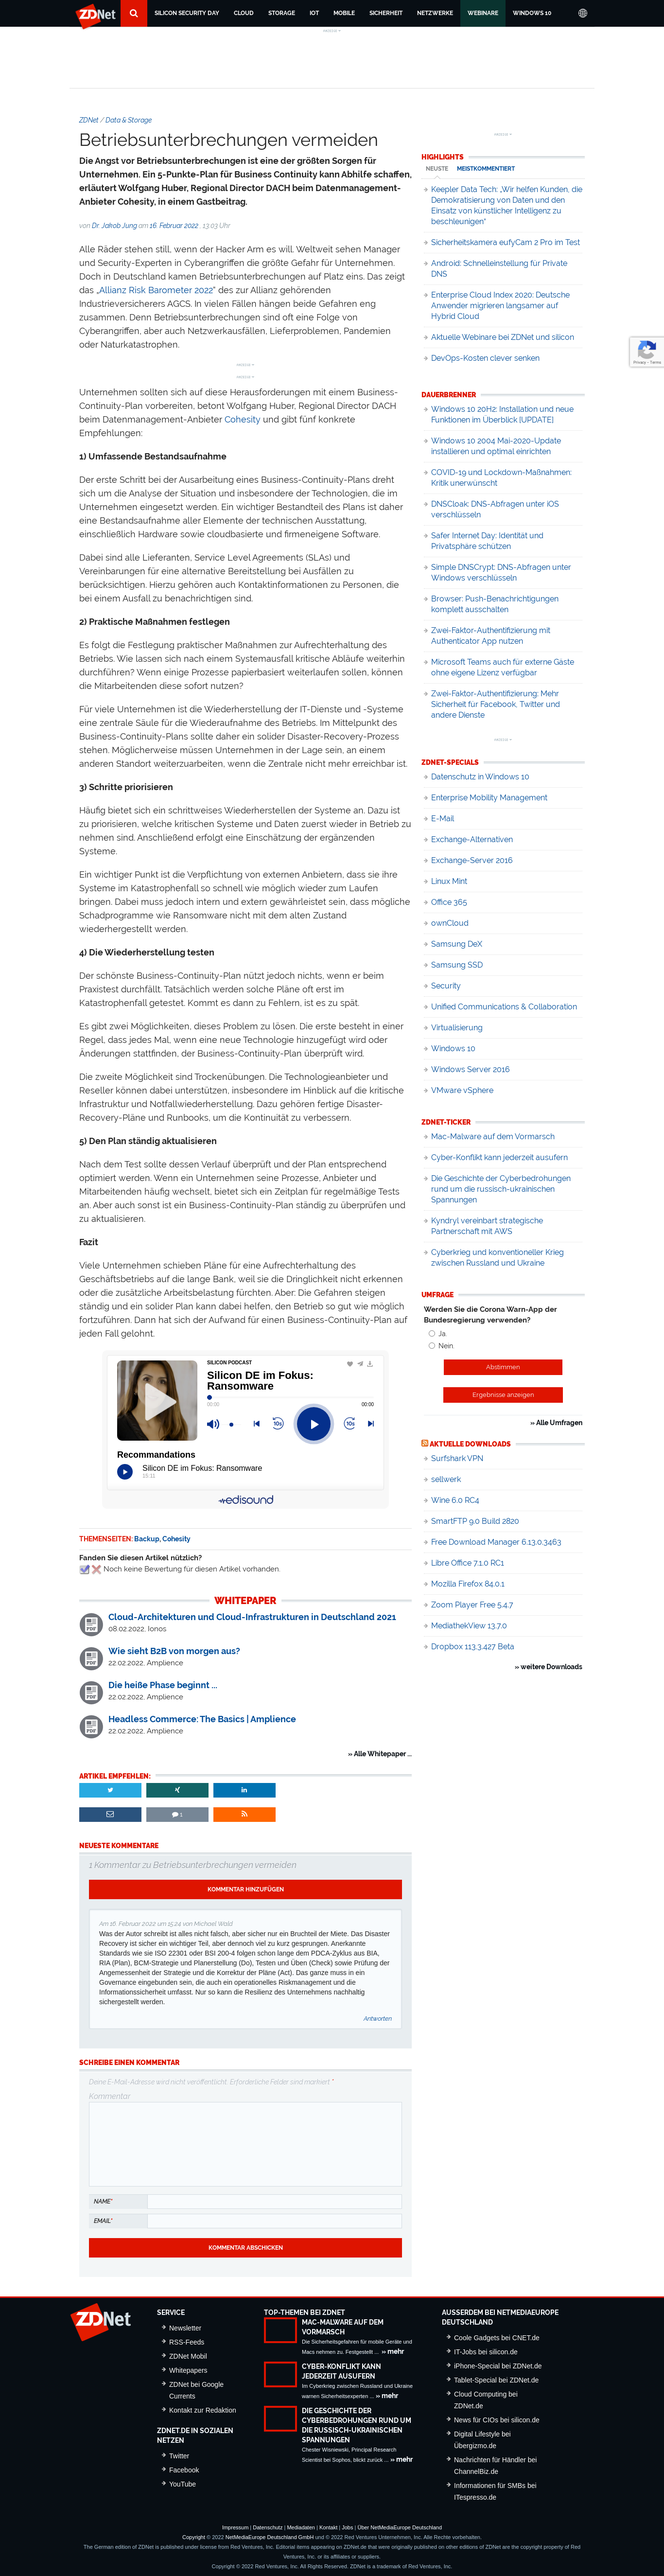
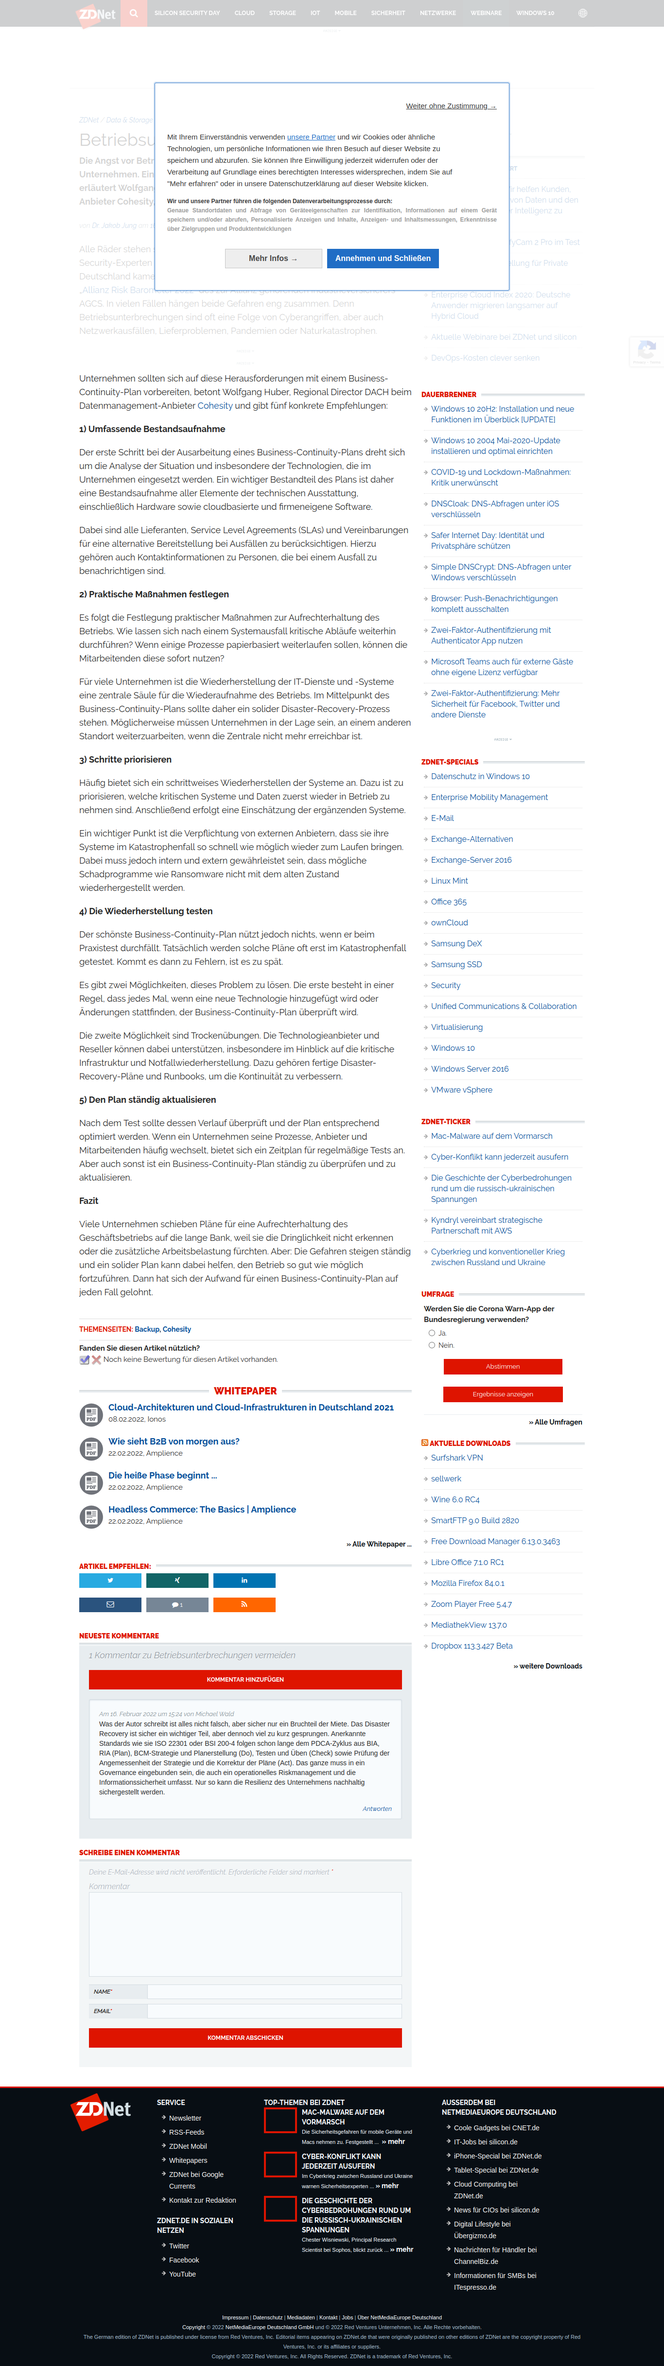
chore@dnd

Changed region(s): [[0.0, 0.0, 1.0, 0.8118], [0.0, 0.8431, 1.0, 0.9992], [0.9531, 0.1249, 0.9839, 0.1561]]

diff --git a/libs/rss-translate/src/modules/scrape.ts b/libs/rss-translate/src/modules/scrape.ts
@@ -1,14 +1,30 @@
 type ScrapeMode = 'zdnet'
 import {playwrightRun} from 'playwright-wrap'
+import { delay, mapAsync } from 'rambdax'
 
 const scrapeFn = async _ => {
+  await _.page.click('#didomi-notice-agree-button')
+  await delay(1000)
   const els = await _.page.$$('#articleContent > p')
-  return els
-    .filter(el => !el.innerHTML.includes('<strong>'))
-    .map(x => x.textContent.trim())
-    .join(' ')
+
+  const titles = []
+  const paragraphs = []
+  await mapAsync(async (el: any) => {
+    const innerHTML = await el.innerHTML()
+    if(innerHTML.includes('<strong>')){
+      titles.push(await el.textContent())
+    }else{
+      paragraphs.push(await el.textContent())
+    }
+  }, Array.from(els))
+
+  return {titles, paragraphs}
+}
+
+function handleError(e){
+  e
 }
 
 export async function scrape(url: string, mode: ScrapeMode) {
-  return playwrightRun({url, fn: scrapeFn, fallback: null})
+  return playwrightRun({url, fn: scrapeFn, fallback: null, handleError})
 }

diff --git a/libs/rss-translate/src/modules/scrape.spec.ts b/libs/rss-translate/src/modules/scrape.spec.ts
@@ -1,6 +1,10 @@
+process.env.HEADLESS = 'OFF'
+
 import { scrape } from './scrape'
 jest.setTimeout(3 * 60 * 1000)
-
 test.only('happy', async () => {
-  await scrape(`https://www.zdnet.de/88399391/betriebsunterbrechungen-vermeiden/`, 'zdnet')
+  const result = await scrape(`https://www.zdnet.de/88399391/betriebsunterbrechungen-vermeiden/`, 'zdnet')
+  expect(
+    result
+  ).toMatchSnapshot()
 })

diff --git a/libs/rss-translate/src/rss-translate.service.ts b/libs/rss-translate/src/rss-translate.service.ts
@@ -32,7 +32,7 @@ export class RssTranslateService {
     return feed.items
   }
   async scrape(url, labelInput){
-    const result = await scrapeMethod(url)
+    const result = await scrapeMethod(url, labelInput)
     console.log(`result`, result)
     return 1
   }
